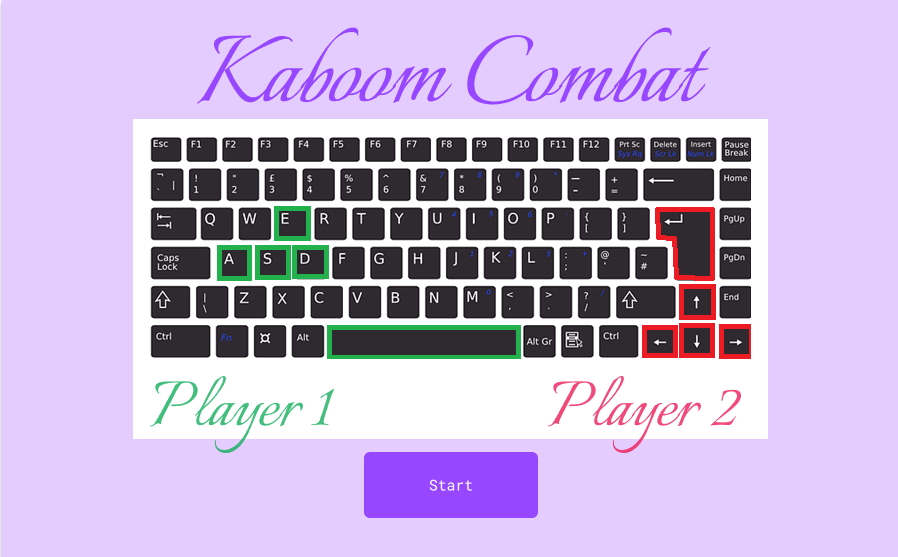
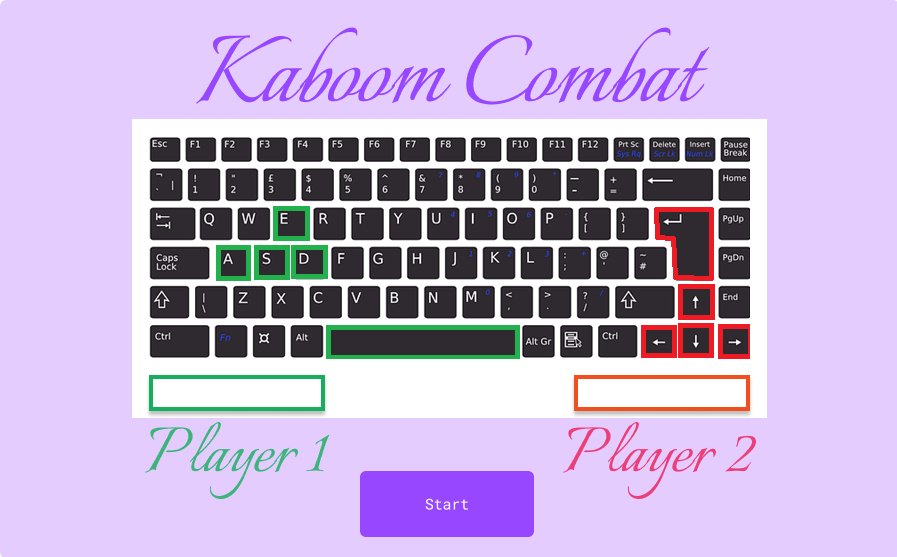
hero name update

diff --git a/main.py b/main.py
@@ -52,7 +52,7 @@ class Game(Collisions, Spawn):
         self.hero1 = Hero(self.board, image_file='images/hero1.png', width=30,
                           height=30, x=width - width * 0.0734, y=height * 0.04, name="Player 1")
         self.hero2 = Hero(self.board, image_file='images/hero2.png', width=30, height=30,
-                          x=width * 0.25, y=height * 0.04,  name="Player 2")
+                          x=width * 0.25, y=height * 0.04, name="Player 2")
 
         # Create heart objects for each player
         hearts1 = [Heart(width=width, height=height, live_type=True,
@@ -91,27 +91,55 @@ class Game(Collisions, Spawn):
             width * 0.055, " ", width * 0.1446, height * 0.507)
         self.text_points2 = Text(
             width * 0.055, " ", width * 0.1446, height * 0.6774)
+        self.text_input1 = Text(
+            width * 0.055, " ", width * 0.1446, height * 0.507)
+        self.text_input2 = Text(
+            width * 0.055, " ", width * 0.1446, height * 0.6774)
+        self.hero1_name = Text(width * 0.02, "Player 1",
+                               width * 0.045, height * 0.33)
+        self.hero2_name = Text(width * 0.02, "Player 2",
+                               width * 0.045, height * 0.63)
 
         # Create button objects
-        self.restart_button = Button(width, height, "images/restart.png")
-        self.start_button = Button(width, height, "images/start.png")
+        self.restart_button = Button(width, height, height * 0.81, "images/restart.png")
+        self.start_button = Button(width, height, height * 0.844, "images/start.png")
+
+        # Create text input object
+        self.text_field = TextField((width * 0.17, height * 0.672, width * 0.195, height * 0.0645), width)
+        self.text_field2 = TextField((width * 0.645, height * 0.672, width * 0.195, height * 0.0645), width)
 
     def start_screen(self):
         """
         Display the start screen with a button to start the game.
         """
-        self.board.draw(self.background_start, self.start_button)
+
+        # Draw the elements on the screen
+        elements = [self.background_start, self.start_button, self.text_field, self.text_field2]
+        self.board.draw(*elements)
+
         while True:
             for event in pygame.event.get():
+                self.text_field.handle_event(event)
+                self.text_field2.handle_event(event)
+
                 if event.type == pygame.locals.QUIT:
                     # Quit the game
                     pygame.quit()
                     sys.exit()
-                elif event.type == pygame.MOUSEBUTTONDOWN and event.button == 1:  # Left mouse button clicked
-                    if self.start_button.rect.collidepoint(
-                            pygame.mouse.get_pos()):  # Check if click occurred on the button
+                elif event.type == pygame.MOUSEBUTTONDOWN and event.button == 1:
+                    # Check if the left mouse button was clicked on the start button
+                    if self.start_button.rect.collidepoint(pygame.mouse.get_pos()):
+                        # Set the names of the heroes based on the text in the text fields
+                        self.hero1.name = self.text_field.text
+                        self.hero2.name = self.text_field2.text
+                        self.hero1_name.text = self.text_field.text
+                        self.hero2_name.text = self.text_field2.text
                         return
 
+            # Redraw the elements on the screen
+            self.board.draw(*elements)
+
+            # Update the display
             pygame.display.flip()
 
     def reset_game(self):
@@ -179,6 +207,8 @@ class Game(Collisions, Spawn):
                 self.prof2,
                 self.profitems1,
                 self.profitems2,
+                self.hero1_name,
+                self.hero2_name,
             ]
 
             # Draw the board and board elements
@@ -203,7 +233,8 @@ class Game(Collisions, Spawn):
                 # Quit the game
                 pygame.quit()
                 return True
-            elif event.type == pygame.USEREVENT and (self.timer.time_left == 0 or self.hero1.lives == 0 or self.hero2.lives == 0):
+            elif event.type == pygame.USEREVENT and (
+                    self.timer.time_left == 0 or self.hero1.lives == 0 or self.hero2.lives == 0):
                 # Game over condition reached
                 self.board_elements.clear()
                 self.board_elements.append(self.background2)
@@ -255,7 +286,7 @@ class Game(Collisions, Spawn):
                 x, y, action, hero = movement
                 x = x * 1.49
                 y = y * 1.49
-                hero_obj = self.hero1 if hero == 1 else self.hero2
+                hero_obj = self.hero1 if hero == 2 else self.hero2
                 if action == 0:
                     # Move the hero and check for collisions
                     hero_obj.move(x, y, self.board)

diff --git a/drawable.py b/drawable.py
@@ -192,7 +192,7 @@ class Heart:
 
 
 class Button:
-    def __init__(self, width, height, image):
+    def __init__(self, width, height, button_height, image):
         """
         Initialize a button object.
 
@@ -204,7 +204,7 @@ class Button:
         self.width = width
         self.height = height
         self.x_pos = width * 0.4
-        self.y_pos = height * 0.81
+        self.y_pos = button_height
         self.image = pygame.transform.scale(pygame.image.load(self.image_path),
                                             (int(self.width * 0.2), int(self.height * 0.118)))
         self.rect = self.image.get_rect(x=self.x_pos, y=self.y_pos)
@@ -235,8 +235,8 @@ class Delete:
         self.height = height
         rows = len(cord_list)
         columns = len(cord_list[0])
-        x = math.floor((width * 0.7) / rows)
-        y = math.floor((height * 0.9265) / columns)
+        x = math.floor((width * 0.65) / rows)
+        y = math.floor((height * 0.91) / columns)
         self.x_pos = math.ceil(
             (width * 0.25) + math.ceil((width * 0.7 / columns) * j))
         self.y_pos = math.ceil(
@@ -360,6 +360,61 @@ class Text:
         """
         text = self.font.render(self.text, True, (0, 0, 0))
         surface.blit(text, (self.x, self.y))
+
+
+class TextField:
+    def __init__(self, rect, width):
+        """
+        Initialize a TextField object.
+
+        Args:
+            rect (tuple): The position and size of the text field (x, y, width, height).
+            width (int): The width of the game window.
+
+        Attributes:
+            rect (pygame.Rect): The rectangle representing the position and size of the text field.
+            color (pygame.Color): The color of the text.
+            text (str): The current text in the text field.
+            font (pygame.font.Font): The font used for rendering the text.
+            active (bool): Indicates whether the text field is currently active (editable).
+        """
+        self.rect = pygame.Rect(rect)
+        self.color = pygame.Color('purple')
+        self.text = ''
+        self.font = pygame.font.Font(None, int(width * 0.044))
+        self.active = False
+
+    def handle_event(self, event):
+        """
+        Handle events for the text field.
+
+        Args:
+            event (pygame.event.Event): The event to handle.
+        """
+        if event.type == pygame.MOUSEBUTTONDOWN and event.button == 1:
+            # Check if the mouse click occurred within the text field
+            self.active = self.rect.collidepoint(event.pos)
+        elif event.type == pygame.KEYDOWN and self.active:
+            if event.key == pygame.K_RETURN:
+                # End editing when the Enter key is pressed
+                self.active = False
+            elif event.key == pygame.K_BACKSPACE:
+                # Remove the last character when the Backspace key is pressed
+                self.text = self.text[:-1]
+            else:
+                # Add the entered character to the text
+                self.text += event.unicode
+
+    def draw_on(self, surface):
+        """
+        Draw the text field on the given surface.
+
+        Args:
+            surface (pygame.Surface): The surface to draw on.
+        """
+        # Render the text
+        text_surface = self.font.render(self.text, True, self.color)
+        surface.blit(text_surface, (self.rect.x + 5, self.rect.y + 5))
 
 
 class Bomb(Drawable):

diff --git a/collisions.py b/collisions.py
@@ -11,7 +11,7 @@ class Collisions:
             if bomb.timer == 50:
                 delete_marks = []
                 for x, y in [(0, 0), (0, 1), (0, -1), (1, 0), (-1, 0)]:
-                    if (bomb.i + x) >= 0 and (bomb.j + y) >= 0:
+                    if (bomb.i + x) >= 0 and (bomb.j + y) >= 0 and (bomb.j + y) <= len(main.cord_list[0]) - 1:
                         delete_marks.append(
                             dr.Delete(self.width, self.height, i=bomb.i + x, j=bomb.j + y))
                         bomb.set_marks(delete_marks)
